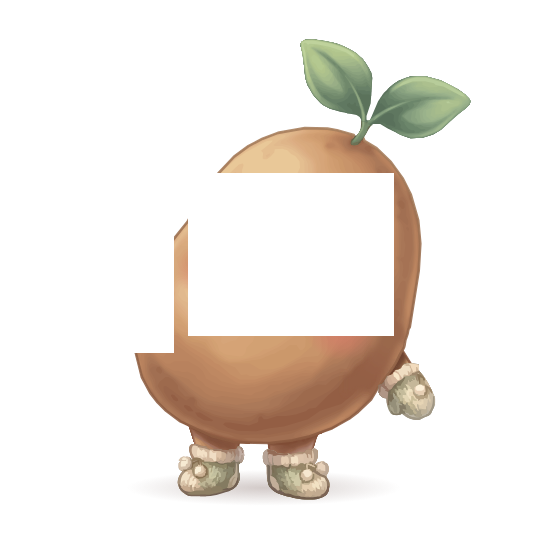
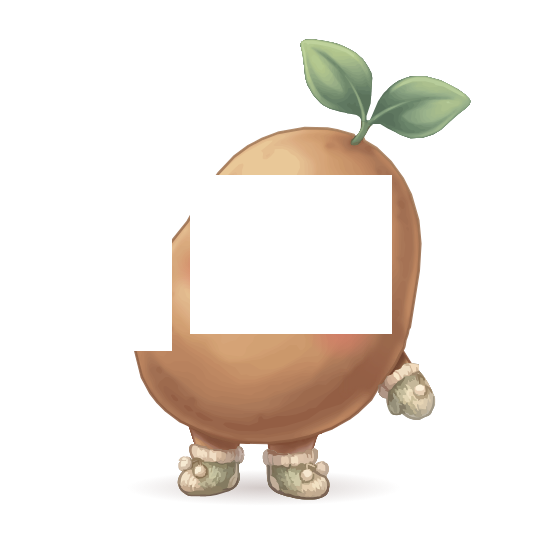
fix(photos): recouvrement de 2 px entre base et patchs, plus de trait blanc au raccord (yam-v432)

Changed region(s): [[0.2963, 0.3259, 0.7407, 0.6519], [0.4148, 0.2963, 0.7111, 0.3259]]

diff --git a/service-worker.js b/service-worker.js
@@ -2,7 +2,7 @@
 // Cache les assets statiques pour un chargement rapide
 // Ne met PAS en cache les requêtes Supabase (données toujours fraîches)
 
-var CACHE_NAME = 'yam-v431';
+var CACHE_NAME = 'yam-v432';
 
 // Dessin de la mascotte (880 Ko) : cache A PART, conservé d'une version à l'autre (pas de retéléchargement à chaque mise à jour).
 // Si le fichier mascotte.html change un jour : passer ce nom à yam-mascotte-3.
